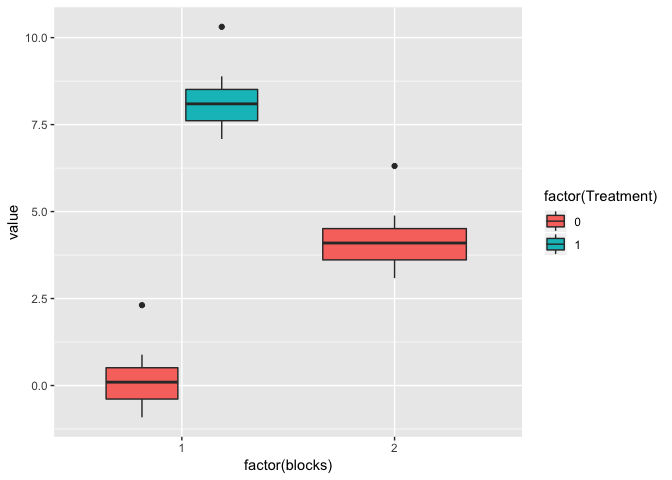
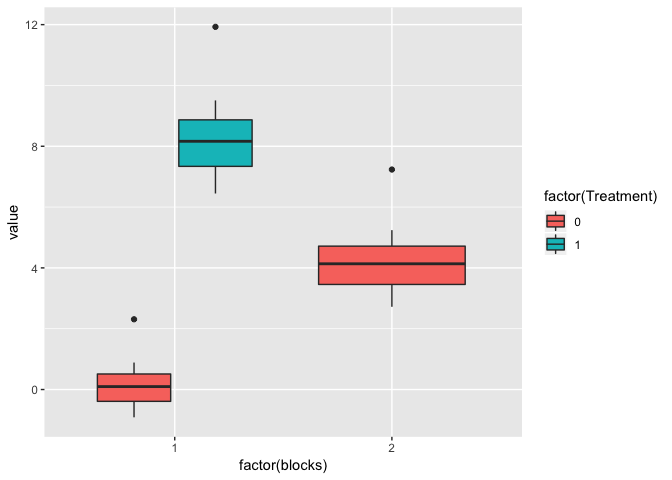
first commit

diff --git a/README.md b/README.md
@@ -37,9 +37,9 @@ b = 4
 set.seed(100)
 x <- rnorm(25,mean = mu,sd = 1)
 set.seed(100)
-y <- rnorm(25,mean = mu + d,sd = 1)
+y <- rnorm(25,mean = mu + d,sd = 1.7)
 set.seed(100)
-x_1 <- rnorm(25,mean = mu + b,sd = 1)
+x_1 <- rnorm(25,mean = mu + b,sd = 1.4)
 
 value <- c(x,y,x_1)
 x <- data.frame(value = value,
@@ -64,19 +64,19 @@ summary(lm(value ~ factor(Treatment) + factor(blocks),data=x))
     ## 
     ## Residuals:
     ##     Min      1Q  Median      3Q     Max 
-    ## -1.0220 -0.4970 -0.0119  0.4027  2.2021 
+    ## -1.7374 -0.6726 -0.0167  0.5851  3.7436 
     ## 
     ## Coefficients:
     ##                    Estimate Std. Error t value Pr(>|t|)    
-    ## (Intercept)          0.1082     0.1406    0.77    0.444    
-    ## factor(Treatment)1   8.0000     0.1988   40.24   <2e-16 ***
-    ## factor(blocks)2      4.0000     0.1988   20.12   <2e-16 ***
+    ## (Intercept)          0.1082     0.1963   0.551    0.583    
+    ## factor(Treatment)1   8.0757     0.2776  29.090   <2e-16 ***
+    ## factor(blocks)2      4.0433     0.2776  14.565   <2e-16 ***
     ## ---
     ## Signif. codes:  0 '***' 0.001 '**' 0.01 '*' 0.05 '.' 0.1 ' ' 1
     ## 
-    ## Residual standard error: 0.7029 on 72 degrees of freedom
-    ## Multiple R-squared:  0.9574, Adjusted R-squared:  0.9562 
-    ## F-statistic: 809.7 on 2 and 72 DF,  p-value: < 2.2e-16
+    ## Residual standard error: 0.9815 on 72 degrees of freedom
+    ## Multiple R-squared:  0.9216, Adjusted R-squared:  0.9194 
+    ## F-statistic: 423.1 on 2 and 72 DF,  p-value: < 2.2e-16
 
 -   *μ*
 
@@ -94,17 +94,15 @@ $d=\\bar{y} - \\bar{x}$
 mean(x$value[x$Treatment==1 & x$blocks == 1]) - mean(x$value[x$Treatment==0 & x$blocks == 1])
 ```
 
-    ## [1] 8
+    ## [1] 8.07572
 
--   *batch effect*
-
-$b=\\bar{x}' - \\bar{x}$
+-   *batch effect* $b=\\bar{x}' - \\bar{x}$
 
 ``` r
 mean(x$value[x$Treatment==0 & x$blocks == 2]) - mean(x$value[x$Treatment==0 & x$blocks == 1])
 ```
 
-    ## [1] 4
+    ## [1] 4.043269
 
 What if we removed block 2?
 ---------------------------
@@ -120,18 +118,18 @@ summary(lm(value ~ factor(Treatment),data=x[x$blocks == 1,]))
     ## 
     ## Residuals:
     ##     Min      1Q  Median      3Q     Max 
-    ## -1.0220 -0.4970 -0.0119  0.4027  2.2021 
+    ## -1.7374 -0.5943 -0.0151  0.5554  3.7436 
     ## 
     ## Coefficients:
     ##                    Estimate Std. Error t value Pr(>|t|)    
-    ## (Intercept)          0.1082     0.1406    0.77    0.445    
-    ## factor(Treatment)1   8.0000     0.1988   40.24   <2e-16 ***
+    ## (Intercept)          0.1082     0.1960   0.552    0.584    
+    ## factor(Treatment)1   8.0757     0.2773  29.128   <2e-16 ***
     ## ---
     ## Signif. codes:  0 '***' 0.001 '**' 0.01 '*' 0.05 '.' 0.1 ' ' 1
     ## 
-    ## Residual standard error: 0.7029 on 48 degrees of freedom
-    ## Multiple R-squared:  0.9712, Adjusted R-squared:  0.9706 
-    ## F-statistic:  1619 on 1 and 48 DF,  p-value: < 2.2e-16
+    ## Residual standard error: 0.9802 on 48 degrees of freedom
+    ## Multiple R-squared:  0.9465, Adjusted R-squared:  0.9453 
+    ## F-statistic: 848.4 on 1 and 48 DF,  p-value: < 2.2e-16
 
 -   The second batch does not provide any information in the estimate of the disease effect.
 -   Is it still worth putting it in?
@@ -160,9 +158,9 @@ sqrt(unscaled_var*sigma)
     ## Warning in sqrt(unscaled_var * sigma): NaNs produced
 
     ##                   1 Treatment    blocks
-    ## 1         0.3143279       NaN       NaN
-    ## Treatment       NaN 0.1987984 0.1405717
-    ## blocks          NaN 0.1405717 0.1987984
+    ## 1         0.4389351       NaN       NaN
+    ## Treatment       NaN 0.2776069 0.1962977
+    ## blocks          NaN 0.1962977 0.2776069
 
 ``` r
 summary(mod1)
@@ -174,19 +172,19 @@ summary(mod1)
     ## 
     ## Residuals:
     ##     Min      1Q  Median      3Q     Max 
-    ## -1.0220 -0.4970 -0.0119  0.4027  2.2021 
+    ## -1.7374 -0.6726 -0.0167  0.5851  3.7436 
     ## 
     ## Coefficients:
     ##                    Estimate Std. Error t value Pr(>|t|)    
-    ## (Intercept)          0.1082     0.1406    0.77    0.444    
-    ## factor(Treatment)1   8.0000     0.1988   40.24   <2e-16 ***
-    ## factor(blocks)2      4.0000     0.1988   20.12   <2e-16 ***
+    ## (Intercept)          0.1082     0.1963   0.551    0.583    
+    ## factor(Treatment)1   8.0757     0.2776  29.090   <2e-16 ***
+    ## factor(blocks)2      4.0433     0.2776  14.565   <2e-16 ***
     ## ---
     ## Signif. codes:  0 '***' 0.001 '**' 0.01 '*' 0.05 '.' 0.1 ' ' 1
     ## 
-    ## Residual standard error: 0.7029 on 72 degrees of freedom
-    ## Multiple R-squared:  0.9574, Adjusted R-squared:  0.9562 
-    ## F-statistic: 809.7 on 2 and 72 DF,  p-value: < 2.2e-16
+    ## Residual standard error: 0.9815 on 72 degrees of freedom
+    ## Multiple R-squared:  0.9216, Adjusted R-squared:  0.9194 
+    ## F-statistic: 423.1 on 2 and 72 DF,  p-value: < 2.2e-16
 
 -   If we only use block 1
 
@@ -218,18 +216,18 @@ summary(mod1)
     ## 
     ## Residuals:
     ##     Min      1Q  Median      3Q     Max 
-    ## -1.0220 -0.4970 -0.0119  0.4027  2.2021 
+    ## -1.7374 -0.5943 -0.0151  0.5554  3.7436 
     ## 
     ## Coefficients:
     ##                    Estimate Std. Error t value Pr(>|t|)    
-    ## (Intercept)          0.1082     0.1406    0.77    0.445    
-    ## factor(Treatment)1   8.0000     0.1988   40.24   <2e-16 ***
+    ## (Intercept)          0.1082     0.1960   0.552    0.584    
+    ## factor(Treatment)1   8.0757     0.2773  29.128   <2e-16 ***
     ## ---
     ## Signif. codes:  0 '***' 0.001 '**' 0.01 '*' 0.05 '.' 0.1 ' ' 1
     ## 
-    ## Residual standard error: 0.7029 on 48 degrees of freedom
-    ## Multiple R-squared:  0.9712, Adjusted R-squared:  0.9706 
-    ## F-statistic:  1619 on 1 and 48 DF,  p-value: < 2.2e-16
+    ## Residual standard error: 0.9802 on 48 degrees of freedom
+    ## Multiple R-squared:  0.9465, Adjusted R-squared:  0.9453 
+    ## F-statistic: 848.4 on 1 and 48 DF,  p-value: < 2.2e-16
 
 -   Which is equivalent to estimating:
 
@@ -262,19 +260,19 @@ summary(mod1)
     ## lm(formula = value ~ factor(Treatment), data = x)
     ## 
     ## Residuals:
-    ##     Min      1Q  Median      3Q     Max 
-    ## -3.0220 -1.4955  0.0088  1.5175  4.2021 
+    ##    Min     1Q Median     3Q    Max 
+    ## -3.044 -1.678  0.015  1.346  5.105 
     ## 
     ## Coefficients:
     ##                    Estimate Std. Error t value Pr(>|t|)    
-    ## (Intercept)           2.108      0.254   8.298 3.87e-12 ***
-    ## factor(Treatment)1    6.000      0.440  13.636  < 2e-16 ***
+    ## (Intercept)          2.1298     0.2738   7.778 3.68e-11 ***
+    ## factor(Treatment)1   6.0541     0.4743  12.764  < 2e-16 ***
     ## ---
     ## Signif. codes:  0 '***' 0.001 '**' 0.01 '*' 0.05 '.' 0.1 ' ' 1
     ## 
-    ## Residual standard error: 1.796 on 73 degrees of freedom
-    ## Multiple R-squared:  0.7181, Adjusted R-squared:  0.7142 
-    ## F-statistic: 185.9 on 1 and 73 DF,  p-value: < 2.2e-16
+    ## Residual standard error: 1.936 on 73 degrees of freedom
+    ## Multiple R-squared:  0.6906, Adjusted R-squared:  0.6863 
+    ## F-statistic: 162.9 on 1 and 73 DF,  p-value: < 2.2e-16
 
 Block as random effect
 ----------------------
@@ -289,26 +287,26 @@ summary(fm1)
     ## Formula: value ~ factor(Treatment) + (1 | blocks)
     ##    Data: x
     ## 
-    ## REML criterion at convergence: 168.8
+    ## REML criterion at convergence: 216.9
     ## 
     ## Scaled residuals: 
-    ##      Min       1Q   Median       3Q      Max 
-    ## -1.46107 -0.71066 -0.01693  0.57644  3.14013 
+    ##     Min      1Q  Median      3Q     Max 
+    ## -1.7701 -0.6786 -0.0164  0.5961  3.8142 
     ## 
     ## Random effects:
     ##  Groups   Name        Variance Std.Dev.
-    ##  blocks   (Intercept) 7.980    2.8249  
-    ##  Residual             0.494    0.7029  
+    ##  blocks   (Intercept) 8.1347   2.8521  
+    ##  Residual             0.9633   0.9815  
     ## Number of obs: 75, groups:  blocks, 2
     ## 
     ## Fixed effects:
     ##                    Estimate Std. Error t value
-    ## (Intercept)          2.1082     2.0000   1.054
-    ## factor(Treatment)1   7.9951     0.1987  40.229
+    ## (Intercept)          2.1298     2.0215   1.054
+    ## factor(Treatment)1   8.0662     0.2774  29.073
     ## 
     ## Correlation of Fixed Effects:
     ##             (Intr)
-    ## fctr(Trtm)1 -0.025
+    ## fctr(Trtm)1 -0.034
 
 Compare fixed random models
 ===========================
